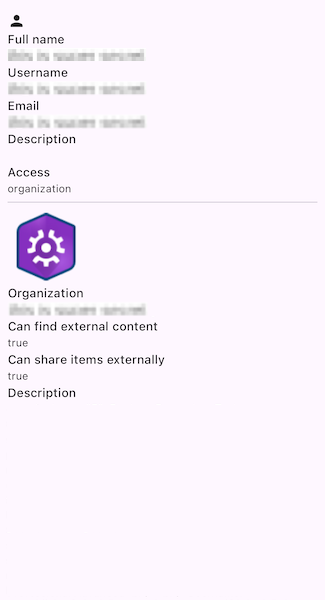
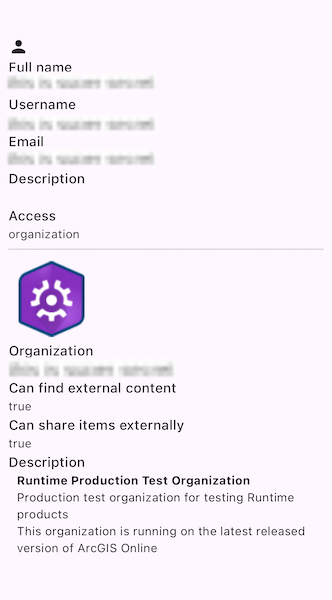
Added new html dependency and updated Show Portal Sample (#118)
* added new html dependency

* updated screenshot

* new screeenshot

Changed region(s): [[0.0, 0.03, 0.9231, 0.93]]

diff --git a/lib/samples/show_portal_user_info/show_portal_user_info.dart b/lib/samples/show_portal_user_info/show_portal_user_info.dart
@@ -2,6 +2,7 @@ import 'dart:typed_data';
 
 import 'package:arcgis_maps/arcgis_maps.dart';
 import 'package:flutter/material.dart';
+import 'package:simple_html_css/simple_html_css.dart';
 
 import '../../utils/sample_state_support.dart';
 
@@ -143,7 +144,15 @@ class _ShowPortalUserInfoState extends State<ShowPortalUserInfo>
                   Text('Can share items externally', style: titleStyle),
                   Text('${_portal.portalInfo?.canSharePublic}'),
                   Text('Description', style: titleStyle),
-                  Text(_portal.portalInfo?.organizationDescription ?? ''),
+                  Padding(
+                    padding: const EdgeInsets.only(left: 10.0),
+                    child: RichText(
+                      text: HTML.toTextSpan(
+                        context,
+                        _portal.portalInfo?.organizationDescription ?? '',
+                      ),
+                    ),
+                  ),
                 ],
               ),
             );
